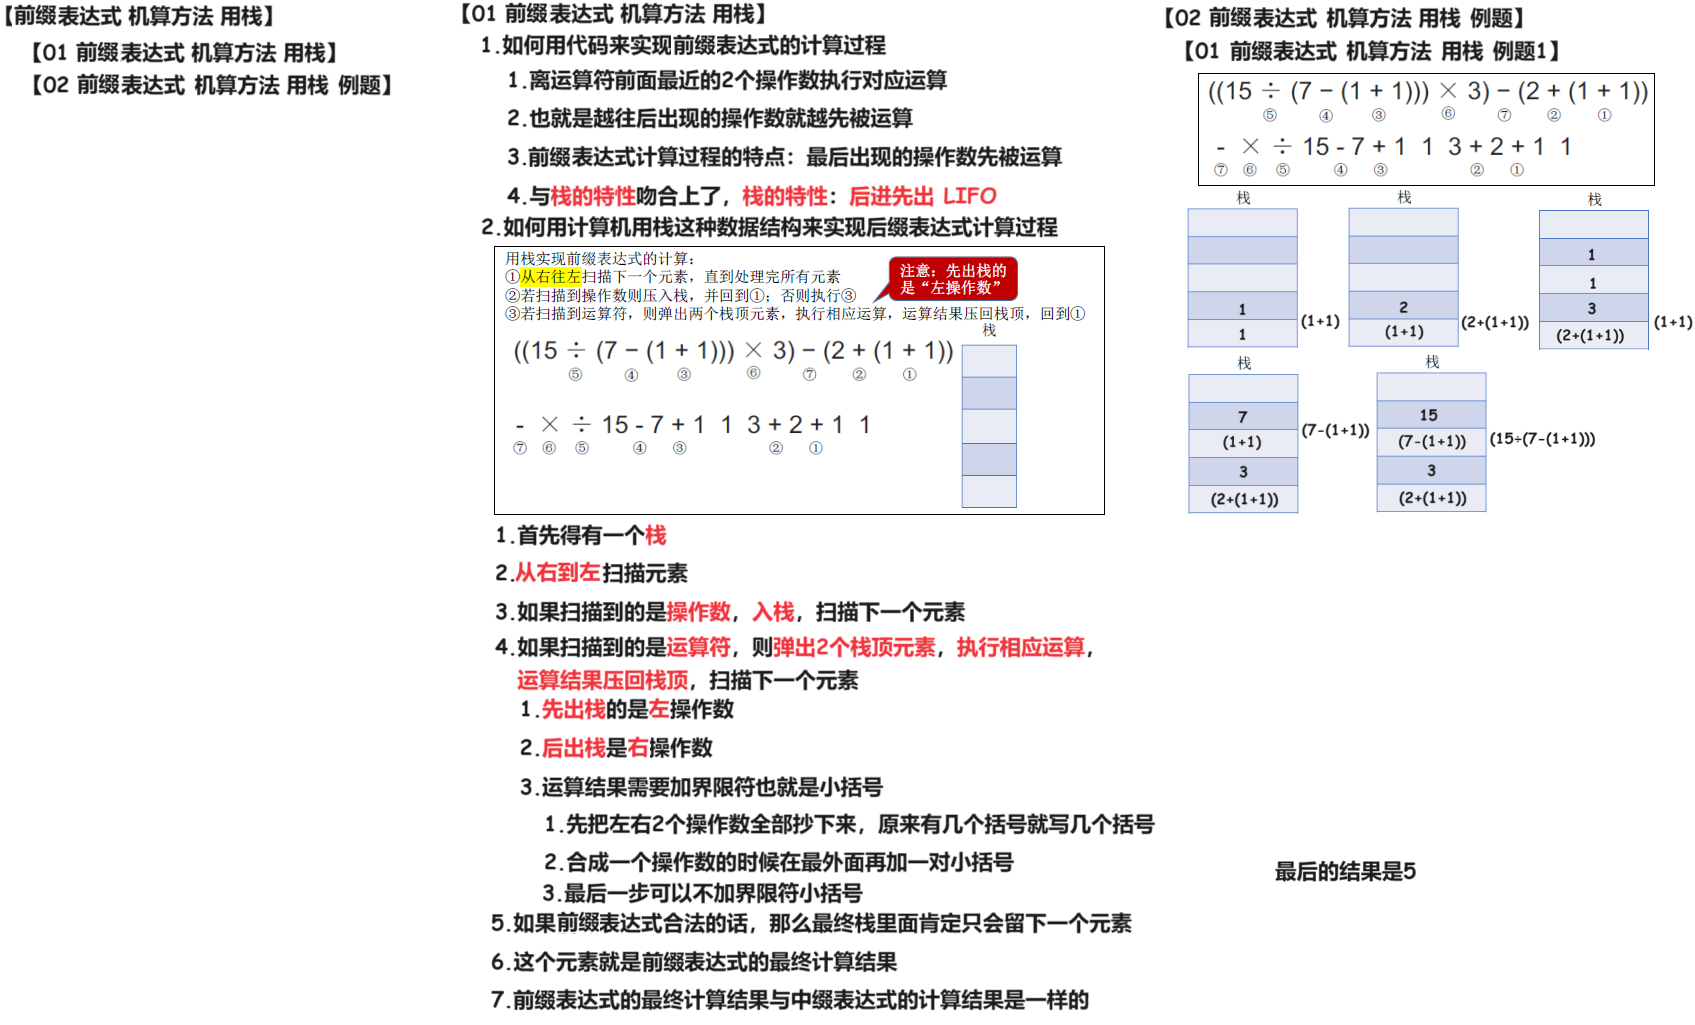
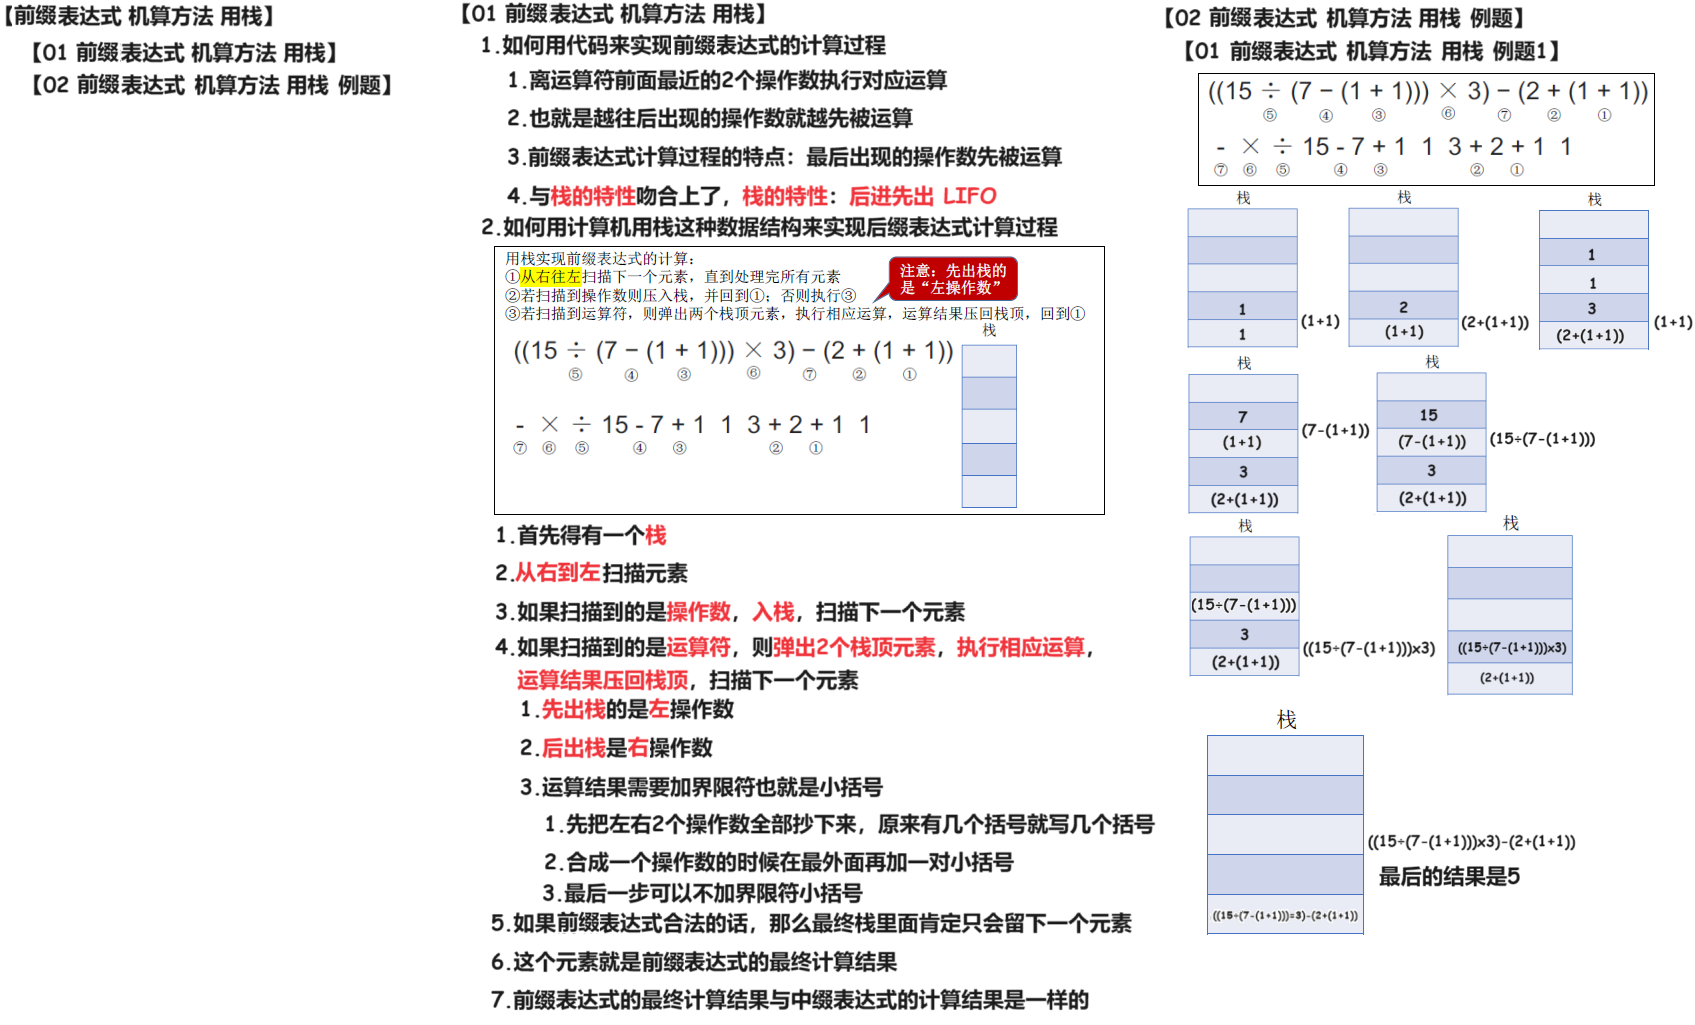
240317

Changed region(s): [[0.6749, 0.4995, 0.951, 0.6868], [0.7056, 0.7493, 0.9204, 0.9054], [0.7363, 0.6868, 0.767, 0.718]]

diff --git a/01 初试/02 DS/01 题集/02 专题/07 栈的应用 表达式求值 240317/01 知识点/01 王道基础/02 Doc.md b/01 初试/02 DS/01 题集/02 专题/07 栈的应用 表达式求值 240317/01 知识点/01 王道基础/02 Doc.md
@@ -30,10 +30,12 @@
 
 # 06 后缀表达式 机算方法 用栈
 
-<img src="https://cvp.oss-cn-shanghai.aliyuncs.com/picgo/202403171644419.png" alt="image-20240317164432102" style="zoom:50%;" />
+<img src="https://cvp.oss-cn-shanghai.aliyuncs.com/picgo/202403171718511.png" alt="image-20240317171825217" style="zoom:50%;" />
 
 # 07 中缀表达式 手算转换 前缀表达式
 
 <img src="https://cvp.oss-cn-shanghai.aliyuncs.com/picgo/202403171630560.png" alt="image-20240317163014253" style="zoom:50%;" />
 
 # 08 前缀表达式 机算方法 用栈
+
+<img src="https://cvp.oss-cn-shanghai.aliyuncs.com/picgo/202403171717407.png" alt="image-20240317171704245" style="zoom: 50%;" />
